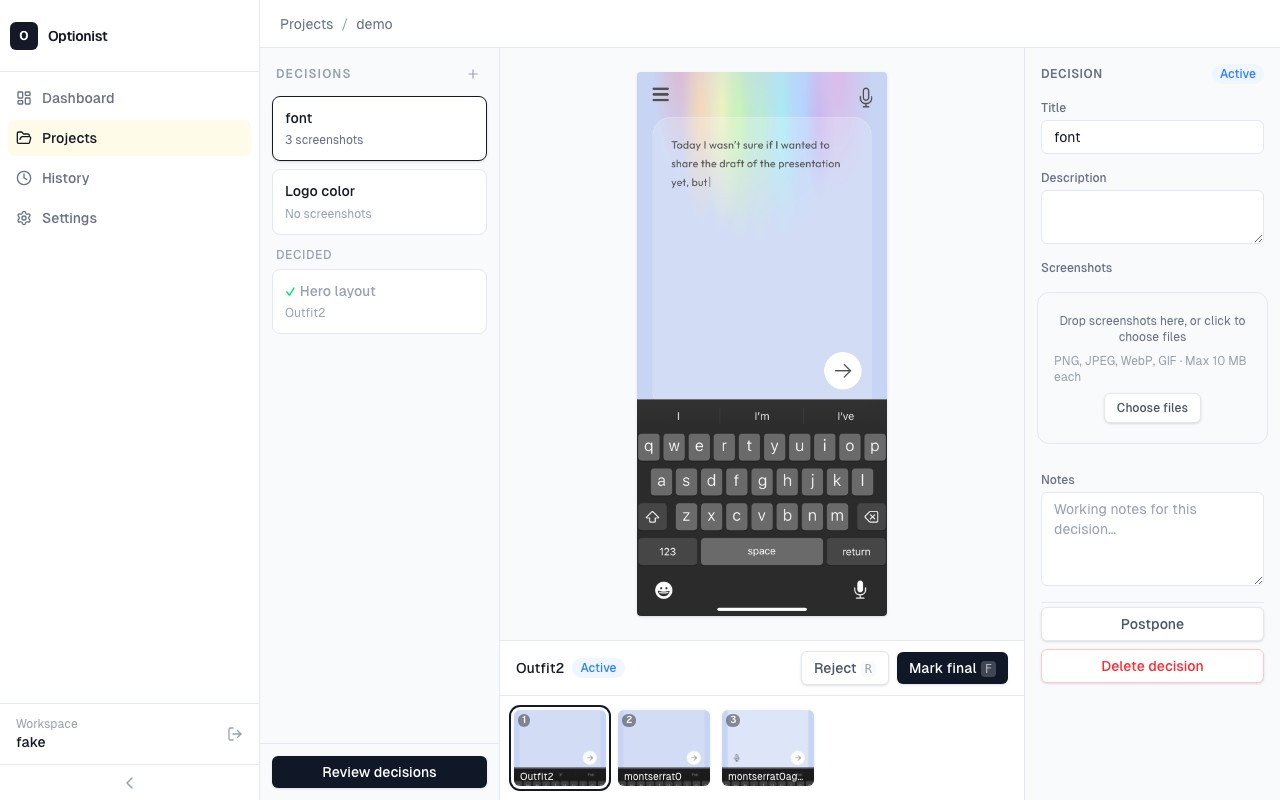
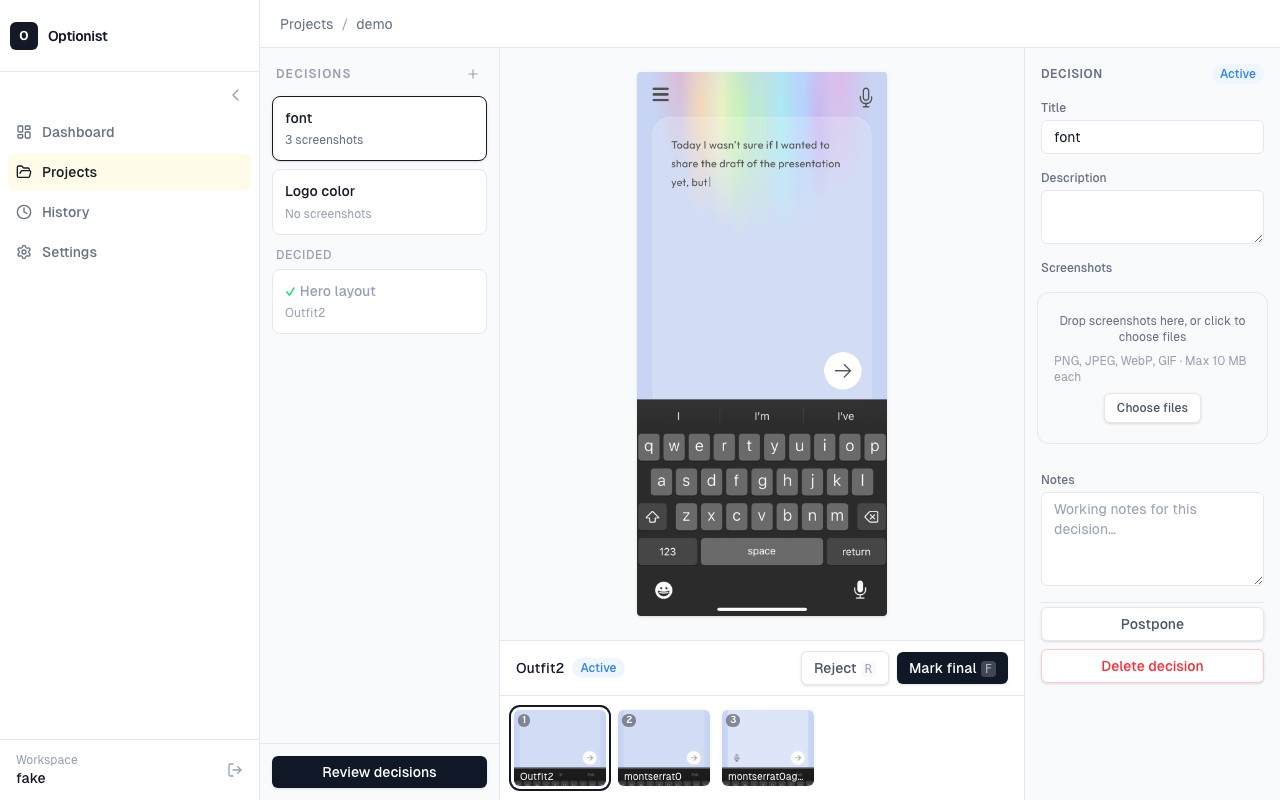
Move the collapse chevron to the top of the sidebar, above Dashboard
Relocate the collapse toggle from the bottom of the sidebar to the first row of
the nav, above the Dashboard item. Right-aligned when expanded, centered when
collapsed.

diff --git a/src/components/layout/AppLayout.tsx b/src/components/layout/AppLayout.tsx
@@ -109,6 +109,32 @@ export default function AppLayout({ children }: { children: ReactNode }) {
 
         {/* Nav */}
         <nav className="flex-1 p-2 flex flex-col gap-1">
+          {/* Collapse toggle — above the nav items */}
+          <button
+            type="button"
+            onClick={toggleCollapsed}
+            title={collapsed ? "Expand sidebar" : "Collapse sidebar"}
+            aria-label={collapsed ? "Expand sidebar" : "Collapse sidebar"}
+            className={cn(
+              "flex items-center px-2 py-2 rounded-md text-text-soft hover:text-text hover:bg-surface-muted transition-colors",
+              collapsed ? "justify-center" : "justify-end",
+            )}
+          >
+            <svg
+              width="14"
+              height="14"
+              viewBox="0 0 14 14"
+              fill="none"
+              stroke="currentColor"
+              strokeWidth="1.5"
+              strokeLinecap="round"
+              strokeLinejoin="round"
+              className={cn("transition-transform duration-200", collapsed ? "rotate-180" : "")}
+            >
+              <path d="M9 2L4 7l5 5" />
+            </svg>
+          </button>
+
           {visibleNav.map((item) => (
             <Link
               key={item.to}
@@ -174,27 +200,6 @@ export default function AppLayout({ children }: { children: ReactNode }) {
           </button>
         )}
 
-        {/* Collapse toggle */}
-        <button
-          type="button"
-          onClick={toggleCollapsed}
-          title={collapsed ? "Expand sidebar" : "Collapse sidebar"}
-          className="shrink-0 flex items-center justify-center h-9 border-t border-border text-text-soft hover:text-text hover:bg-surface-muted transition-colors"
-        >
-          <svg
-            width="14"
-            height="14"
-            viewBox="0 0 14 14"
-            fill="none"
-            stroke="currentColor"
-            strokeWidth="1.5"
-            strokeLinecap="round"
-            strokeLinejoin="round"
-            className={cn("transition-transform duration-200", collapsed ? "rotate-180" : "")}
-          >
-            <path d="M9 2L4 7l5 5" />
-          </svg>
-        </button>
       </aside>
 
       <div className="flex-1 flex flex-col min-w-0 overflow-hidden">